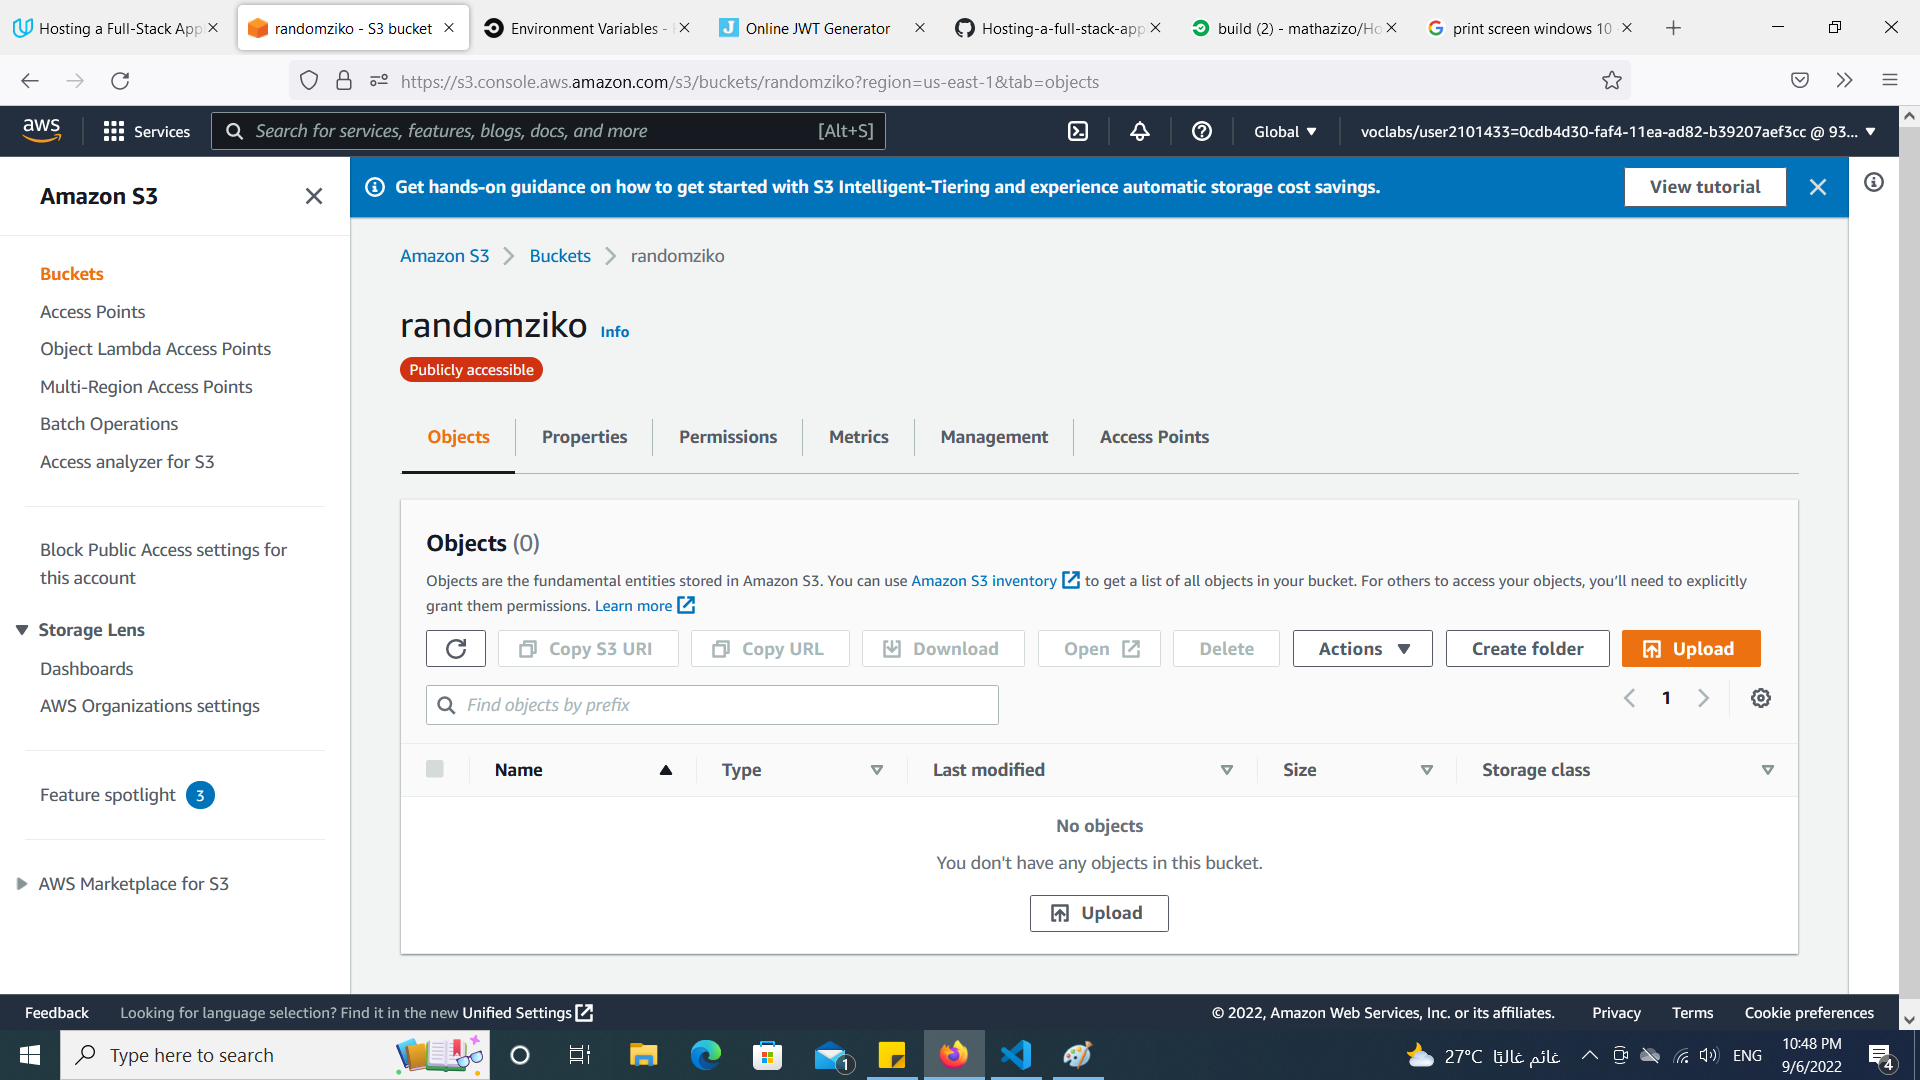
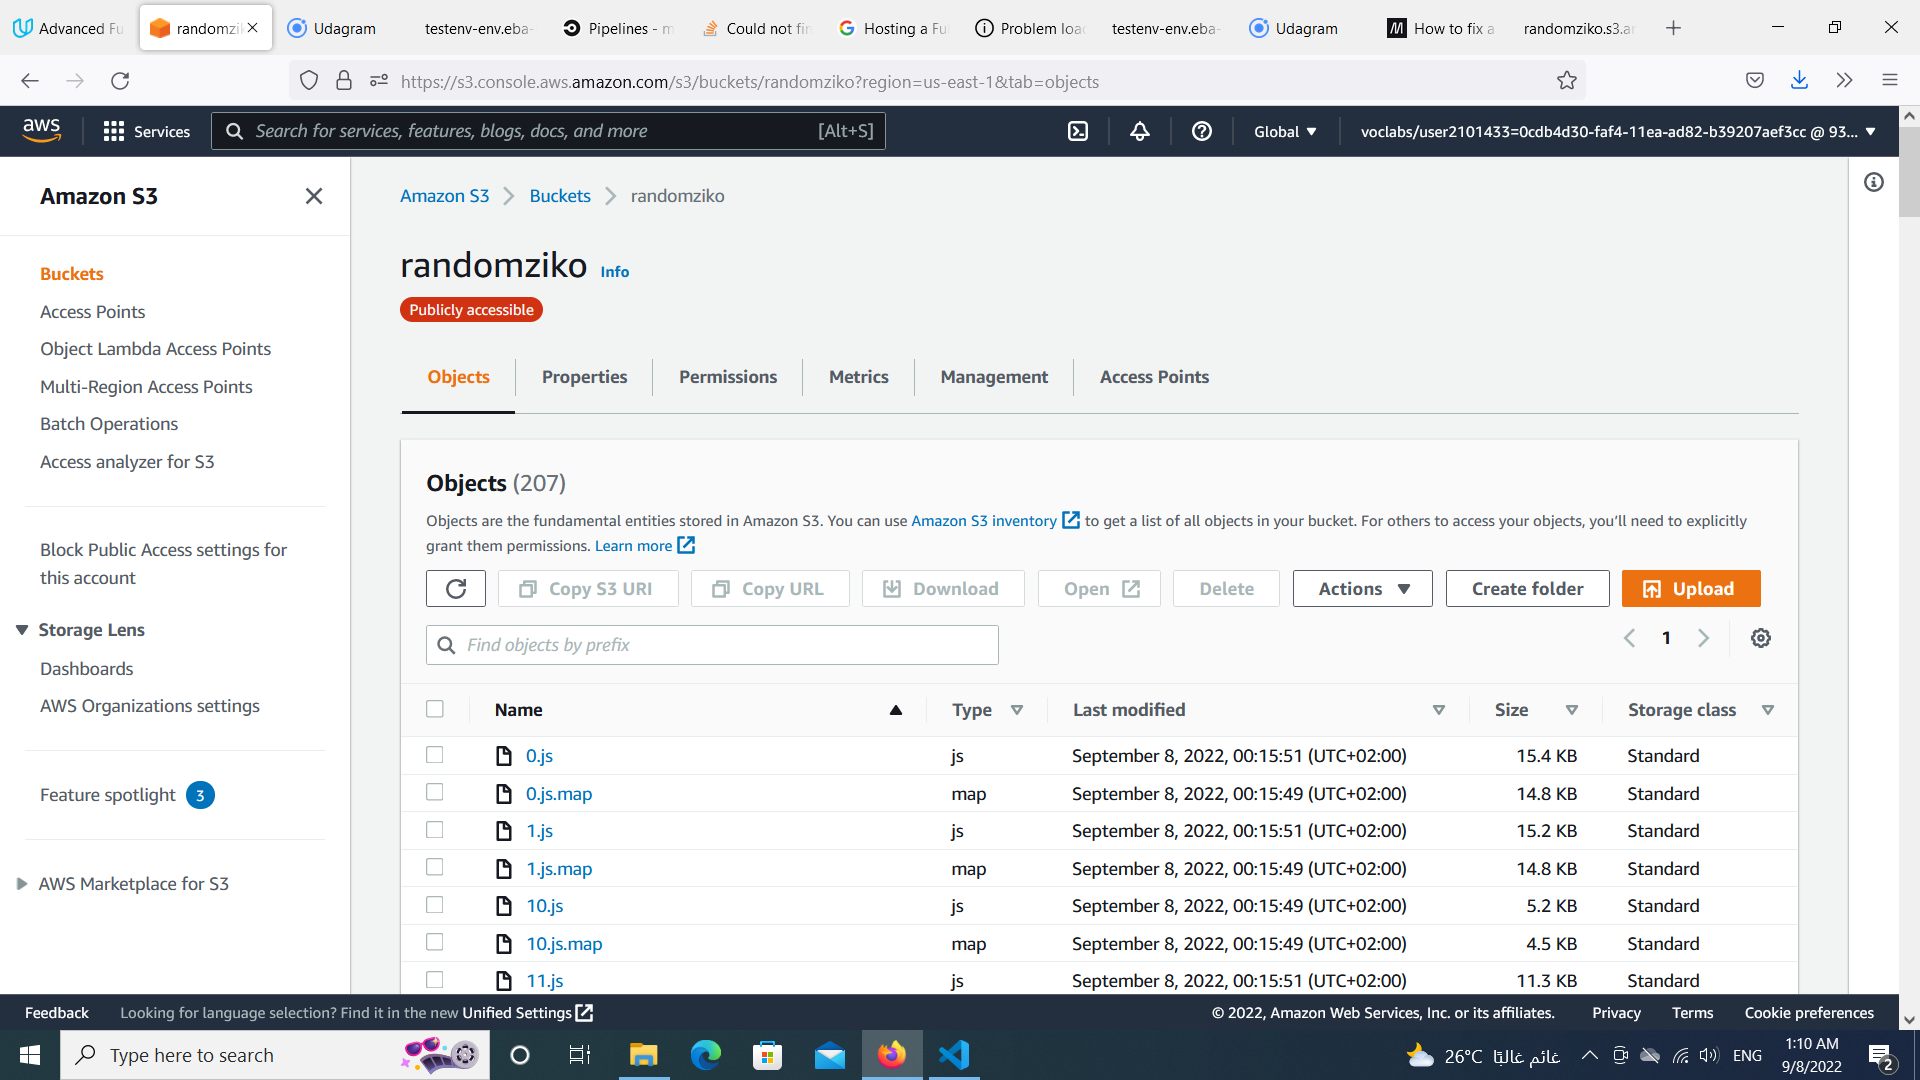
last

diff --git a/README.md b/README.md
@@ -70,3 +70,7 @@ The e2e tests are using Protractor and Jasmine.
 ## License
 
 [License](LICENSE.txt)
+
+## Frontend url
+
+https://randomziko.s3.amazonaws.com/index.html
